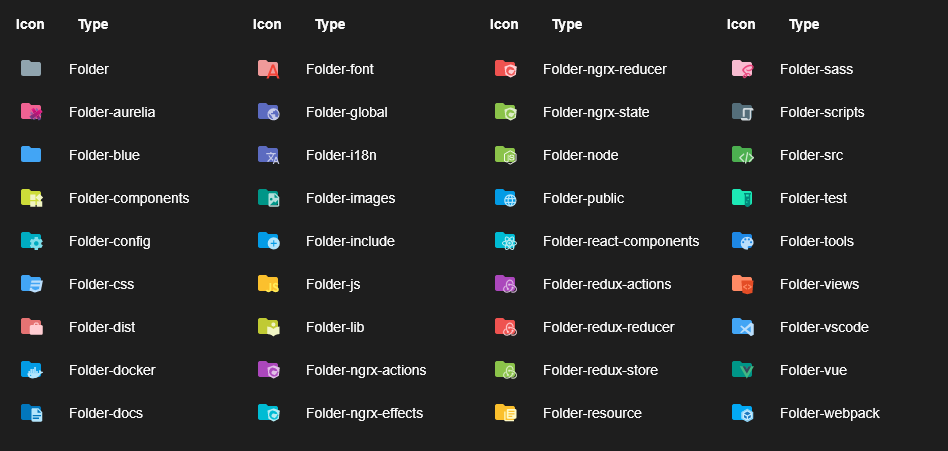
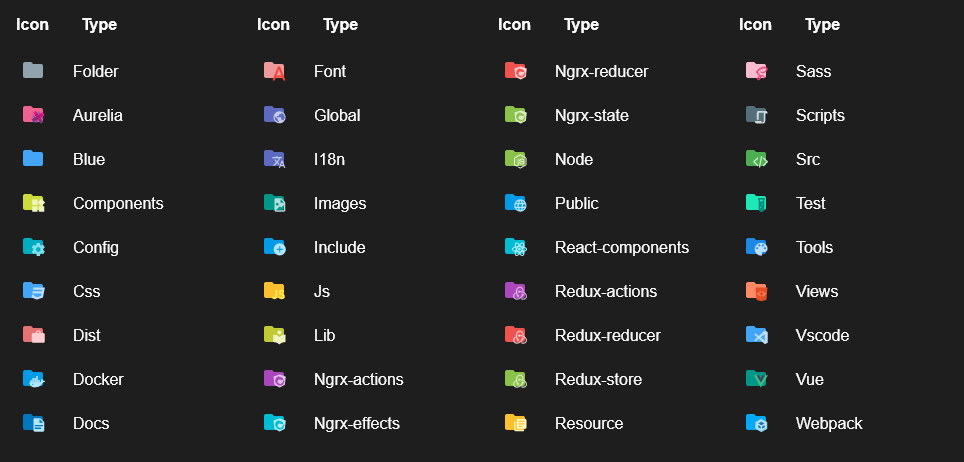
updated preview label of folder names

diff --git a/scripts/preview/index.ts b/scripts/preview/index.ts
@@ -11,7 +11,6 @@ const filterDuplicates = (icons: string[]) => {
 };
 
 const basicFileIcons = fileIcons.icons
-    .filter(i => !i.enabledFor) // no icon packs
     .map(i => i.name);
 
 const folderThemes = filterDuplicates(folderIcons.map(theme => {
@@ -25,6 +24,6 @@ const folderThemes = filterDuplicates(folderIcons.map(theme => {
     return [].concat(...folders);
 }).reduce((a, b) => a.concat(b)));
 
-generatePreview('fileIcons', basicFileIcons, 5, ['word']);
+generatePreview('fileIcons', basicFileIcons, 5, ['word', 'movie', 'virtual', 'music']);
 generatePreview('folderIcons', folderThemes, 4, ['folder-git', 'folder-expo']);
 

diff --git a/scripts/preview/preview.ts b/scripts/preview/preview.ts
@@ -28,7 +28,7 @@ const createBodyRows = (items: string[][]) => {
             <td class="icon">
                 <img src="./../../icons/${icon}.svg" alt="${icon}">
             </td>
-            <td class="type">${toTitleCase(icon)}</td>
+            <td class="type">${toTitleCase(icon.replace('folder-', ''))}</td>
         `).join('');
         const tableRow = `
             <tr>

diff --git a/scripts/preview/style.css b/scripts/preview/style.css
@@ -9,7 +9,7 @@ table {
     width: 100%;
     background: rgb(30, 30, 30);
     color: rgb(250, 250, 250);
-    font-size: .875rem;
+    font-size: 1rem;
 }
 
 td, th {
